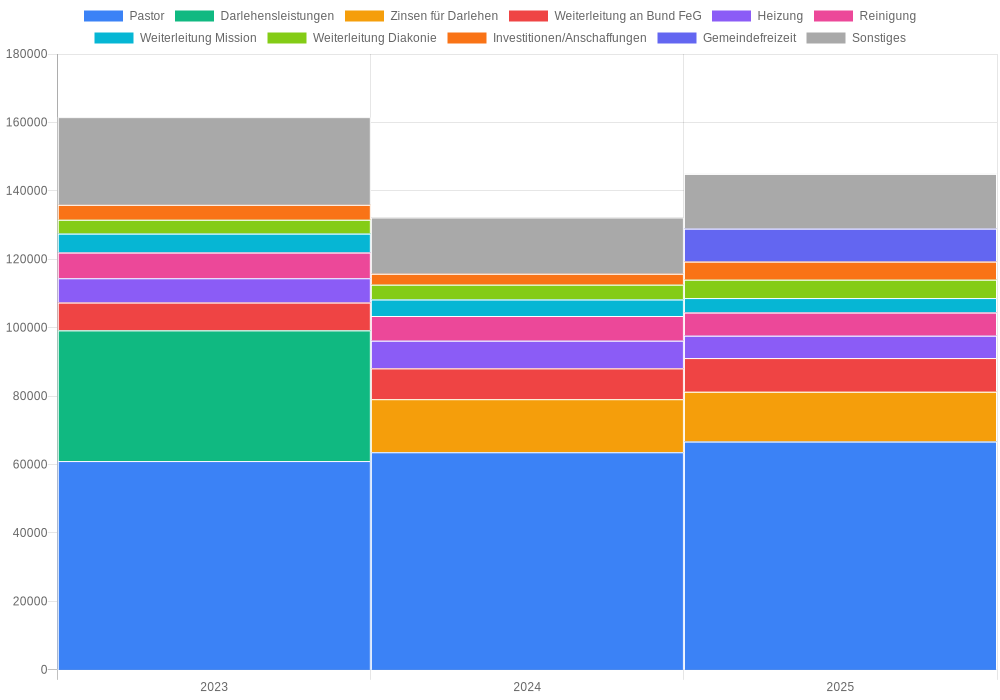
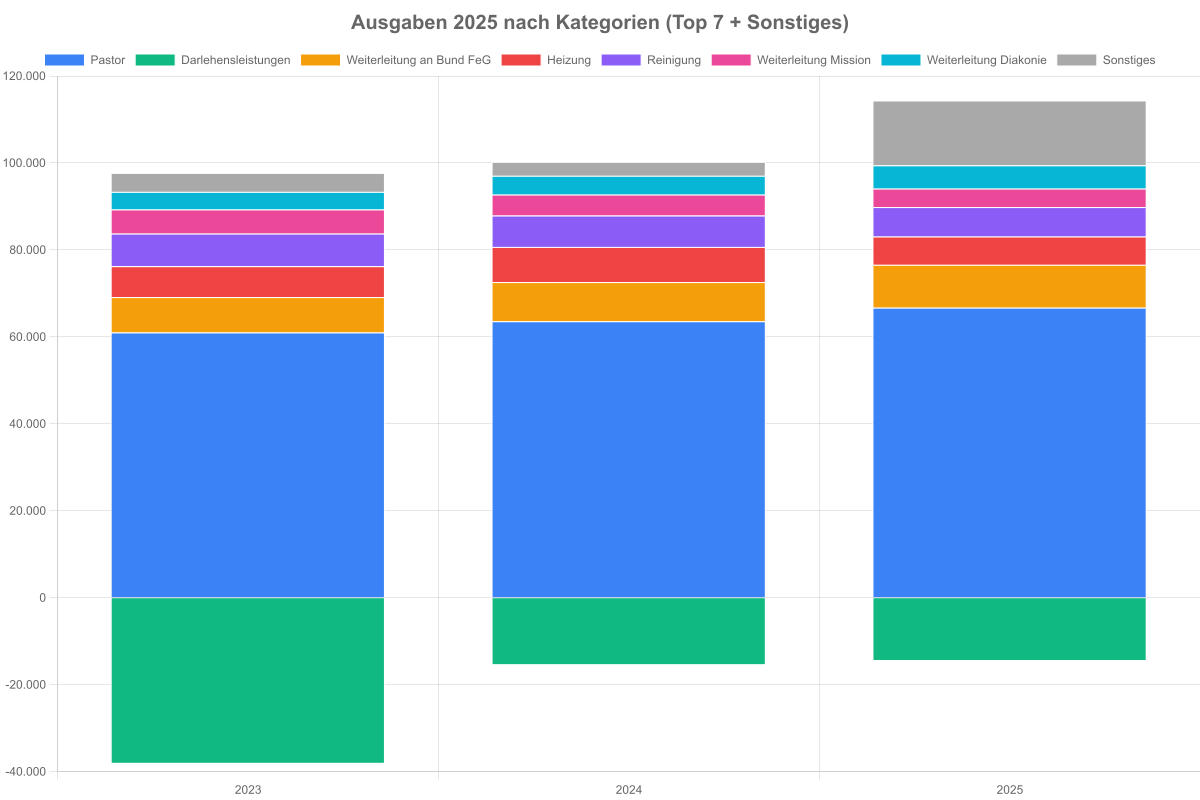
fix: Die Darstellung hat nun die richtigen Richtungen(Positiv und negativ)

diff --git a/lib/charts.js b/lib/charts.js
@@ -3,7 +3,8 @@
 import fs from 'fs';
 import path from 'path';
 import { fileURLToPath } from 'url';
-import { readCSV, extractExpenses, ensureResultDirectory, readProfitLossReports, extractIncome } from './utils.js';
+import { readCSV, extractExpenses, ensureResultDirectory, readProfitLossReports, extractIncome, COLORS } from './utils.js';
+import { ChartJSNodeCanvas } from 'chartjs-node-canvas';
 
 // __dirname replacement for ES modules
 const __filename = fileURLToPath(import.meta.url);
@@ -184,6 +185,91 @@ export {
     generateEinnahmenJson,
     generateEinnahmenJsonFromSorted
 };
+
+// Generate stacked bar PNG from Ausgaben_YYYY.json
+async function generateAusgabenChartFromJson(reportYear) {
+    try { fs.appendFileSync(path.join(process.cwd(), 'debug.log'), `[charts] generateAusgabenChartFromJson called for ${reportYear}\n`); } catch (e) {}
+    const jsonPath = path.join(process.cwd(), 'Daten', 'result', `Ausgaben_${reportYear}.json`);
+    if (!fs.existsSync(jsonPath)) {
+        throw new Error(`JSON file not found: ${jsonPath}`);
+    }
+    const content = fs.readFileSync(jsonPath, 'utf8');
+    const data = JSON.parse(content);
+
+    // years are keys sorted
+    const years = Object.keys(data).sort();
+
+    // collect categories and totals
+    const categoryTotals = {};
+    years.forEach(y => {
+        const row = data[y] || {};
+        Object.entries(row).forEach(([cat, val]) => {
+            categoryTotals[cat] = (categoryTotals[cat] || 0) + (Math.abs(val) || 0);
+        });
+    });
+
+    // remove Sonstiges from sorting, will place on top
+    const hasSonstiges = Object.prototype.hasOwnProperty.call(categoryTotals, 'Sonstiges');
+    if (hasSonstiges) delete categoryTotals['Sonstiges'];
+
+    // sort categories by total desc (largest first -> bottom)
+    const sortedCats = Object.entries(categoryTotals).sort((a, b) => b[1] - a[1]).map(e => e[0]);
+    // append Sonstiges last (top)
+    if (hasSonstiges) sortedCats.push('Sonstiges');
+
+    // build datasets
+    const datasets = sortedCats.map((cat, idx) => {
+        const values = years.map(y => {
+            const v = (data[y] && data[y][cat]) || 0;
+            // Darlehensleistungen stay negative (below zero); others positive
+            if (cat === 'Darlehensleistungen') return -Math.abs(v || 0);
+            return Math.abs(v || 0);
+        });
+        const color = (cat === 'Sonstiges') ? '#A9A9A9' : `#${COLORS.chartColors[idx % COLORS.chartColors.length]}`;
+        return {
+            label: cat,
+            data: values,
+            backgroundColor: color,
+            borderColor: '#ffffff',
+            borderWidth: 1,
+            stack: 'stack1'
+        };
+    });
+
+    // Chart.js config
+    const latestYear = years[years.length - 1] || reportYear;
+    const config = {
+        type: 'bar',
+        data: {
+            labels: years,
+            datasets: datasets
+        },
+        options: {
+            indexAxis: 'x',
+            plugins: {
+                title: { display: true, text: `Ausgaben ${reportYear} nach Kategorien (Top ${Math.max(0, sortedCats.length - (hasSonstiges?1:0))} + Sonstiges)`, font: { size: 20 } },
+                legend: { position: 'top' }
+            },
+            scales: {
+                x: { stacked: true },
+                y: { stacked: true }
+            }
+        }
+    };
+
+    // render with chartjs-node-canvas
+    const width = 1200;
+    const height = 800;
+    const chartJSNodeCanvas = new ChartJSNodeCanvas({ width, height });
+    const image = await chartJSNodeCanvas.renderToBuffer(config);
+    ensureResultDirectory();
+    const outPath = path.join(process.cwd(), 'Daten', 'result', `Ausgaben_${reportYear}.png`);
+    fs.writeFileSync(outPath, image);
+    try { fs.appendFileSync(path.join(process.cwd(), 'debug.log'), `[charts] Ausgaben PNG written to ${outPath}\n`); } catch (e) {}
+    return outPath;
+}
+
+export { generateAusgabenChartFromJson };
 
 // --- Einnahmen JSON generator (analog zu Ausgaben) ---
 function generateEinnahmenJsonFromSorted(sortedIncomeData, years, currentYear) {

diff --git a/generate-presentation.js b/generate-presentation.js
@@ -376,6 +376,16 @@ async function createPresentation() {
     await chartsModule.generateEinnahmenJson(currentYear);
     logToFile('Einnahmen JSON erstellt (fallback raw reports)');
   }
+  // Generate Ausgaben PNG from JSON
+  try {
+    const reportYear = currentYear - 1;
+    if (chartsModule.generateAusgabenChartFromJson) {
+      const pngPath = await chartsModule.generateAusgabenChartFromJson(reportYear);
+      logToFile(`Ausgaben PNG erstellt: ${pngPath}`);
+    }
+  } catch (e) {
+    logToFile('Fehler beim Erzeugen Ausgaben-PNG: ' + e.message);
+  }
   await createPPT(excelResult.sortedIncomeData, excelResult.sortedExpensesData, excelResult.sortedPieData);
 }
 
